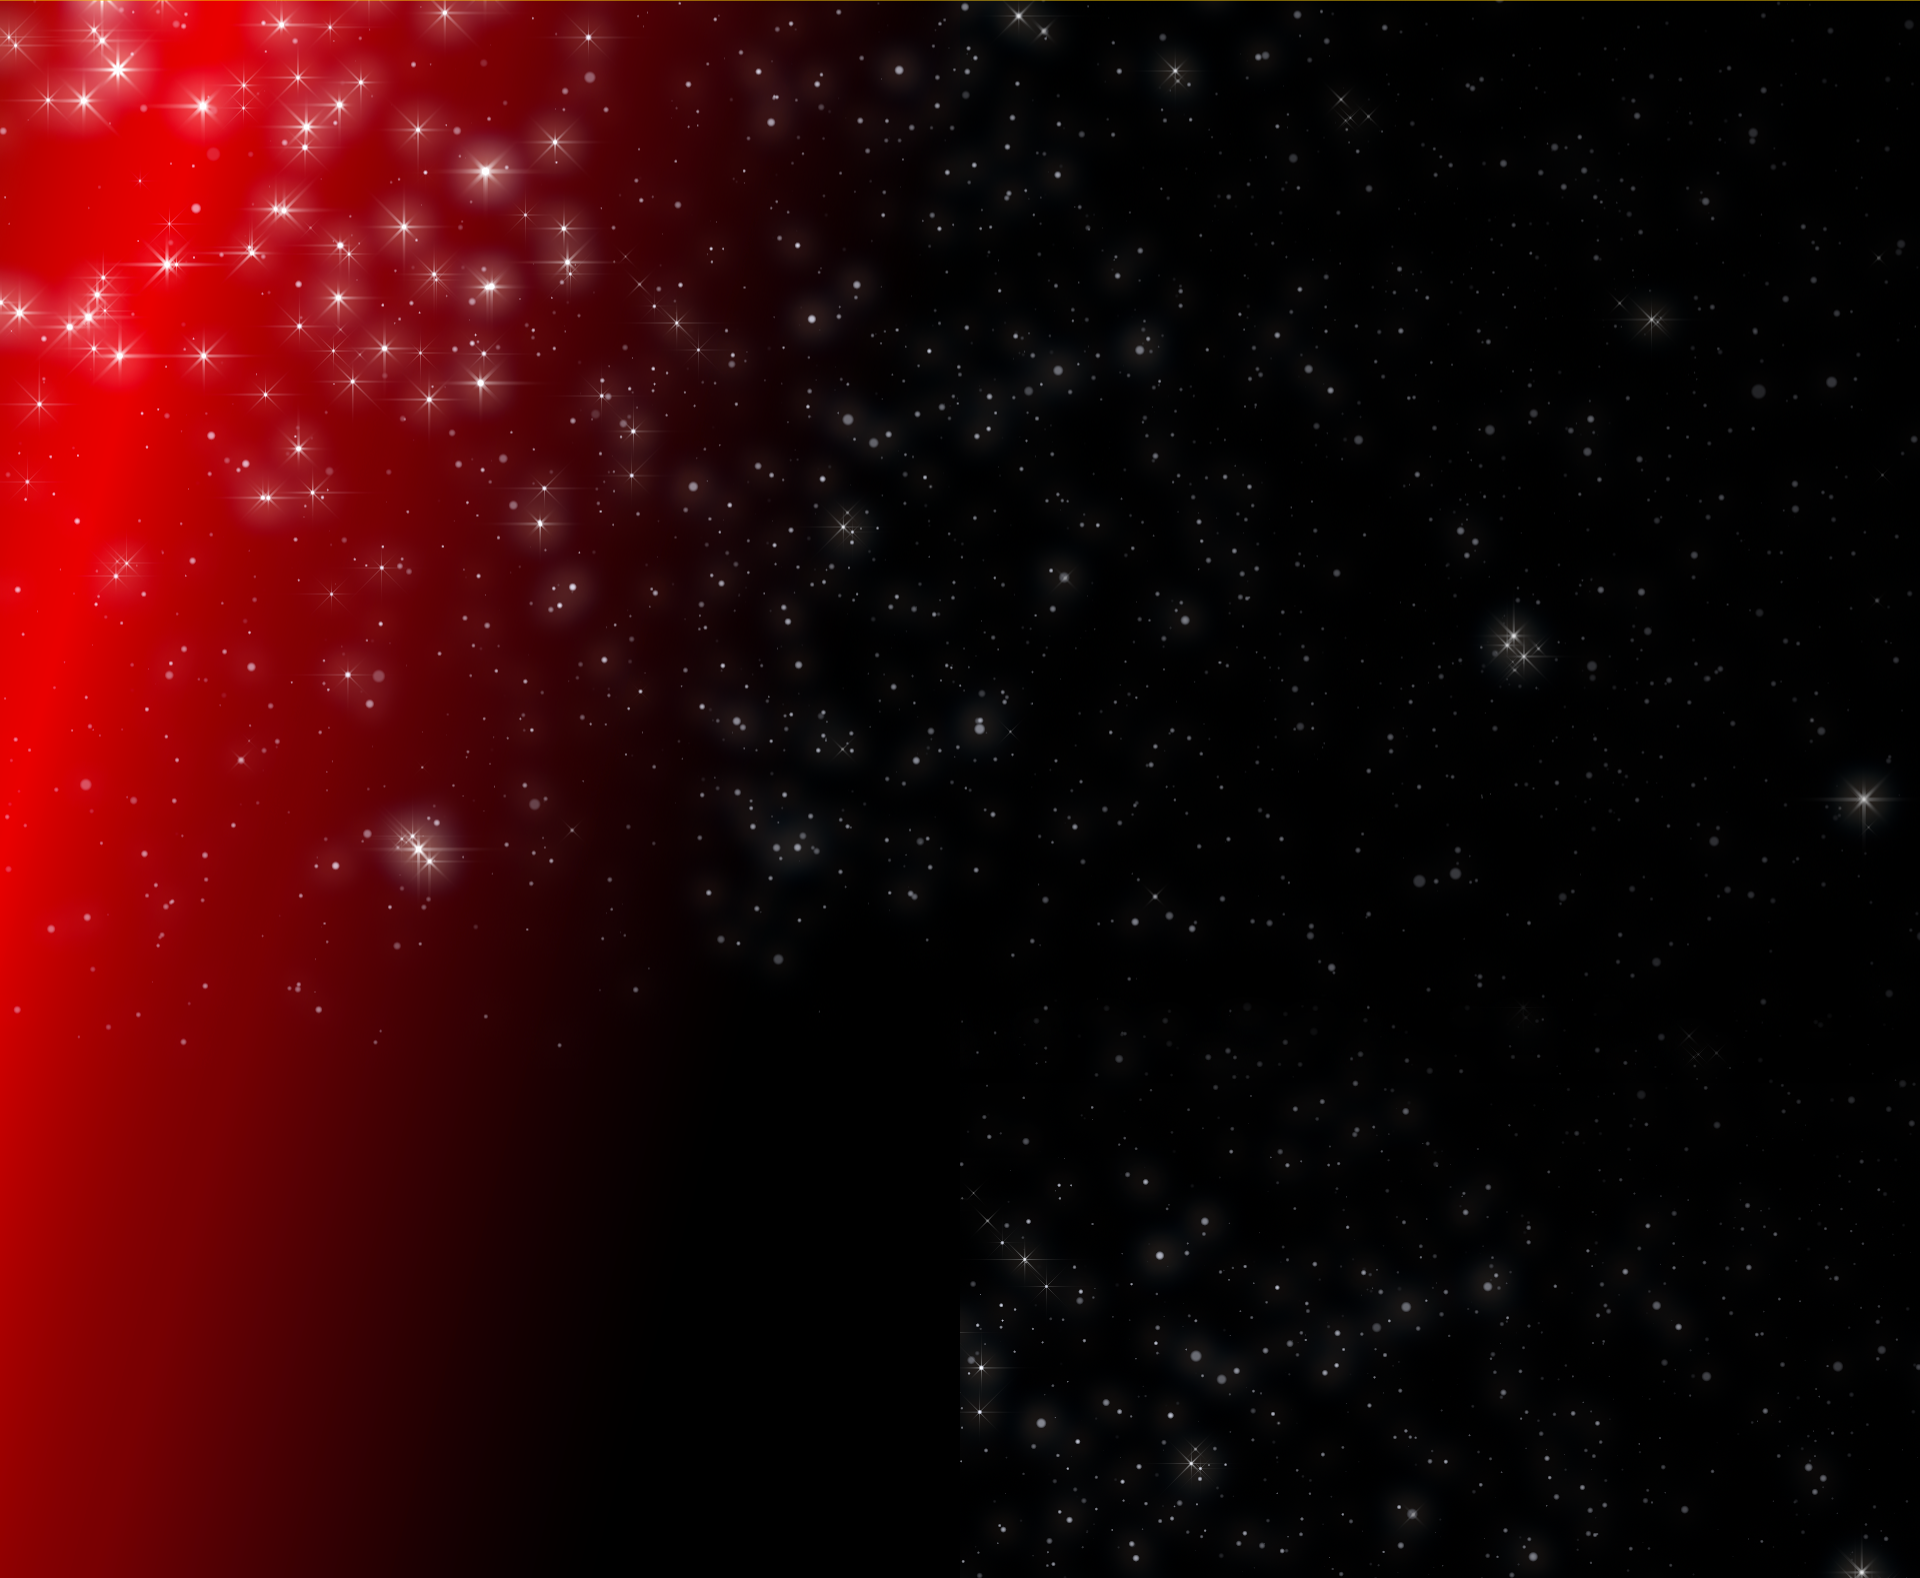
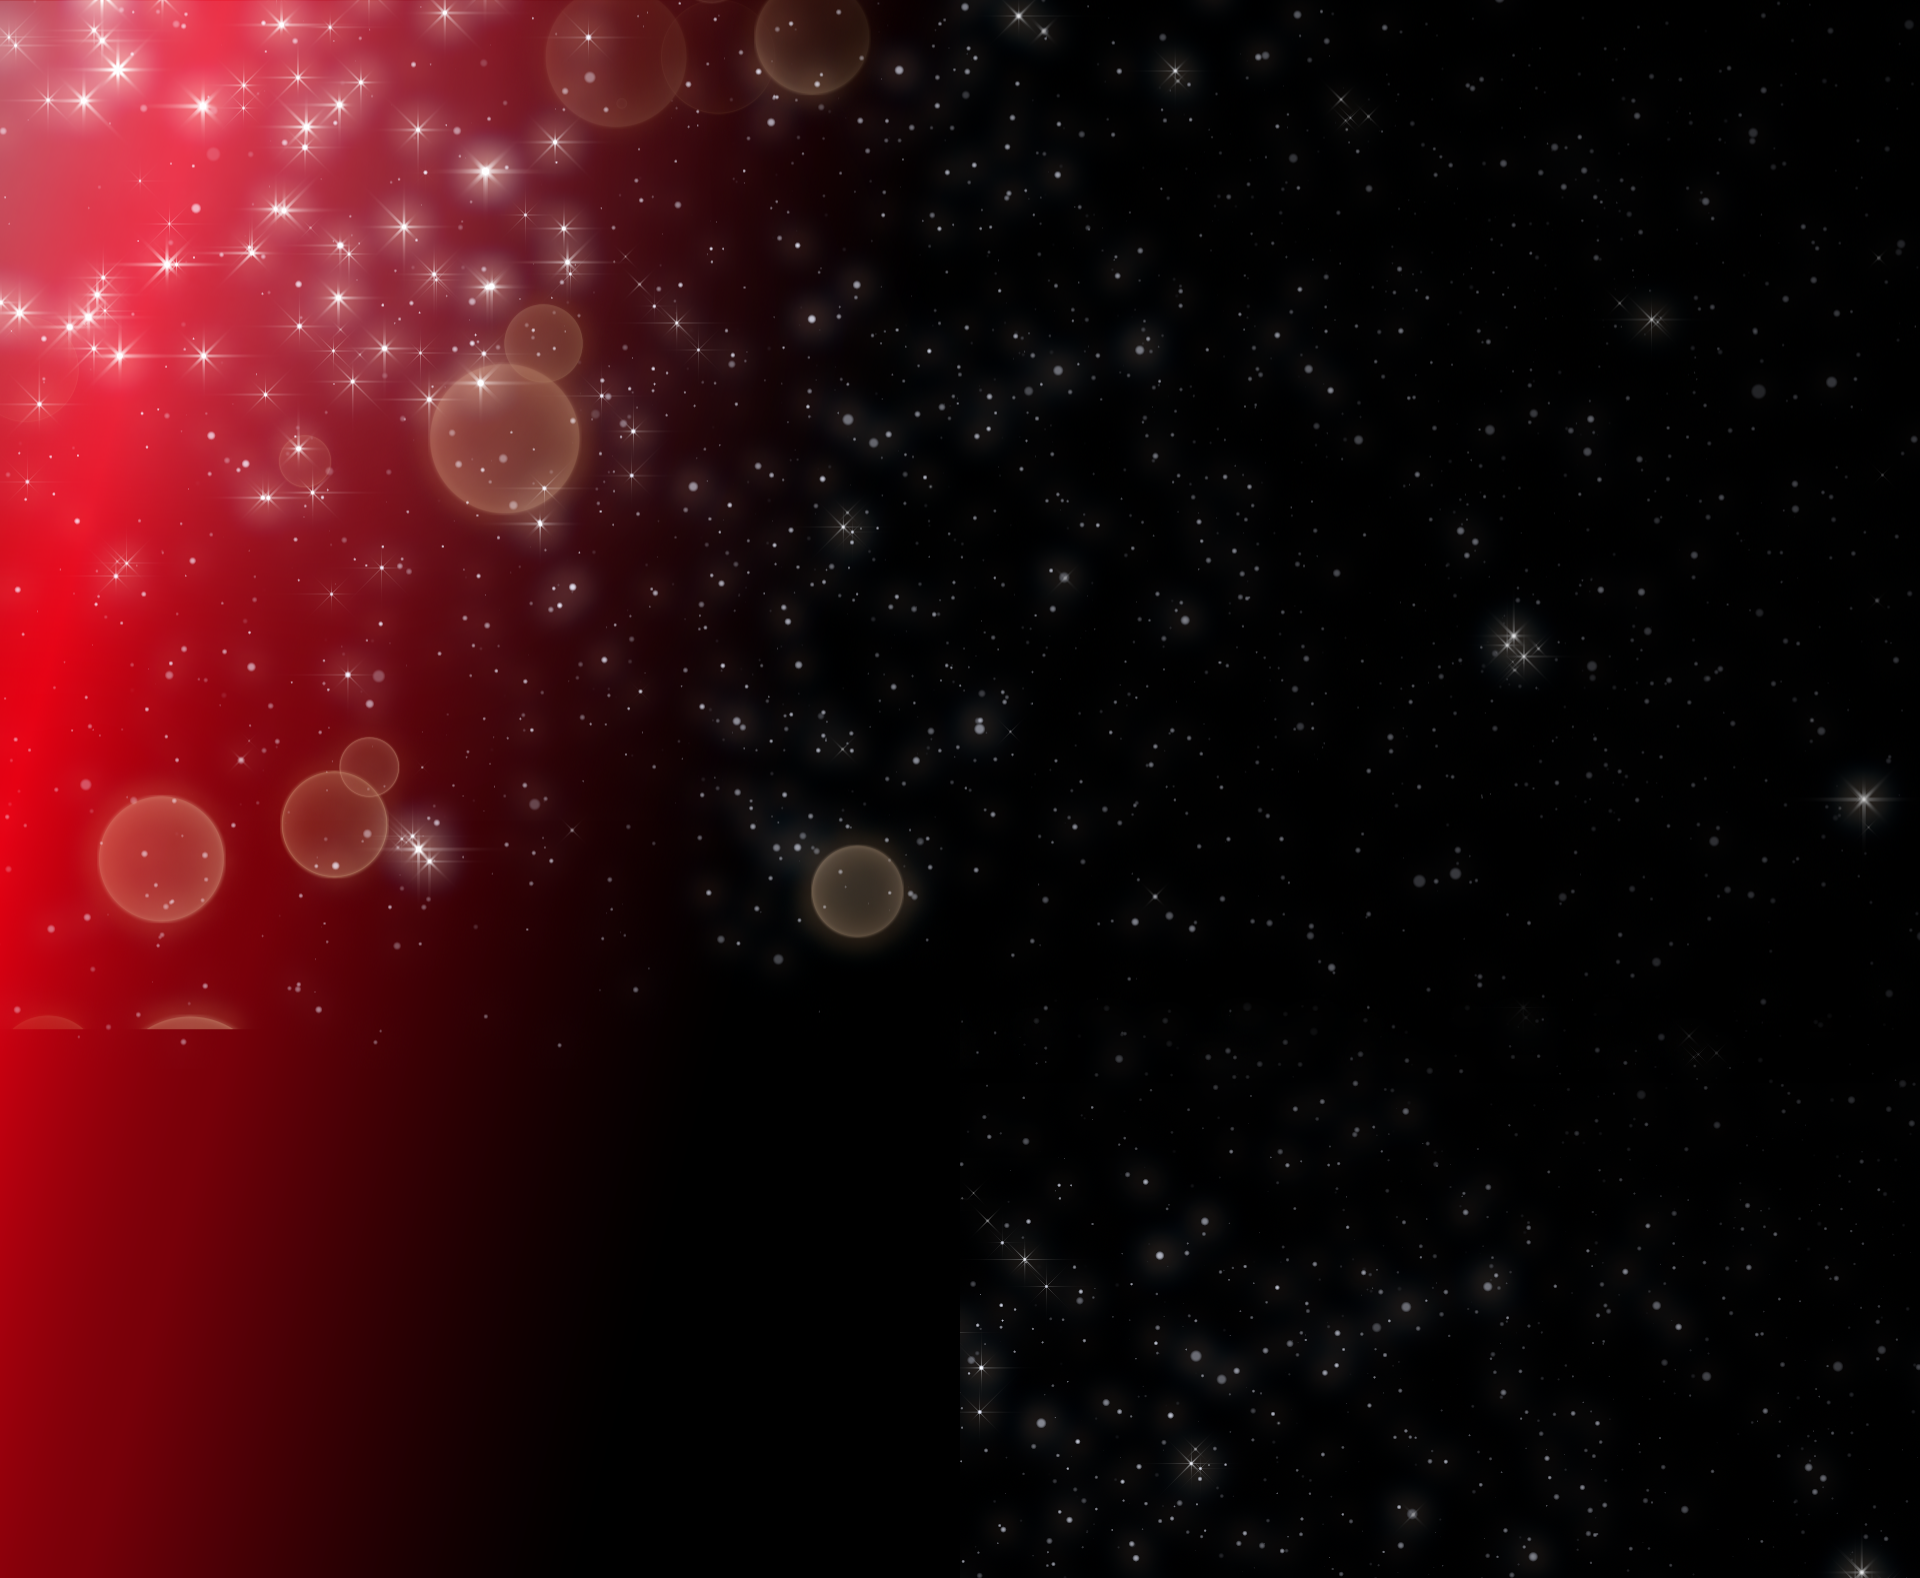
updating assets

diff --git a/src/styles/lobby-hero.module.scss b/src/styles/lobby-hero.module.scss
@@ -66,13 +66,13 @@ div.column:first-of-type {
     display: inline-block;
     width: 297px;
     height: 93px;
-    background-image: url('/img/AC-SMAC20_Marketing_log-in-button_enabled.png');
+    background-image: url('/img/AC-SMAC20_Marketing_log-in-button_enabled_trans_bkgd.png');
   }
   .nmi-link:hover {
-    background-image: url('/img/AC-SMAC20_Marketing_log-in-button_hover.png');
+    background-image: url('/img/AC-SMAC20_Marketing_log-in-button_hover_trans_bkgd.png');
   }
   .nmi-link:visited {
-    background-image: url('/img/AC-SMAC20_Marketing_log-in-button_pressed.png');
+    background-image: url('/img/AC-SMAC20_Marketing_log-in-button_pressed_trans_bkgd.png');
   }
 }
 

diff --git a/src/styles/colors.scss b/src/styles/colors.scss
@@ -1,6 +1,6 @@
-$color_primary : #5e5f62;
-$color_primary_contrast : #dfdfe0;
-$color_secondary : #262673;
-$color_secondary_contrast : #8CC639;
-$color_text_dark : #5e5f62;
+$color_primary : #E20012;
+$color_primary_contrast : #ffffff;
+$color_secondary : #9D0B0F;
+$color_secondary_contrast : #000000;
+$color_text_dark : #58595B;
 $color_text_light : #ffffff;
